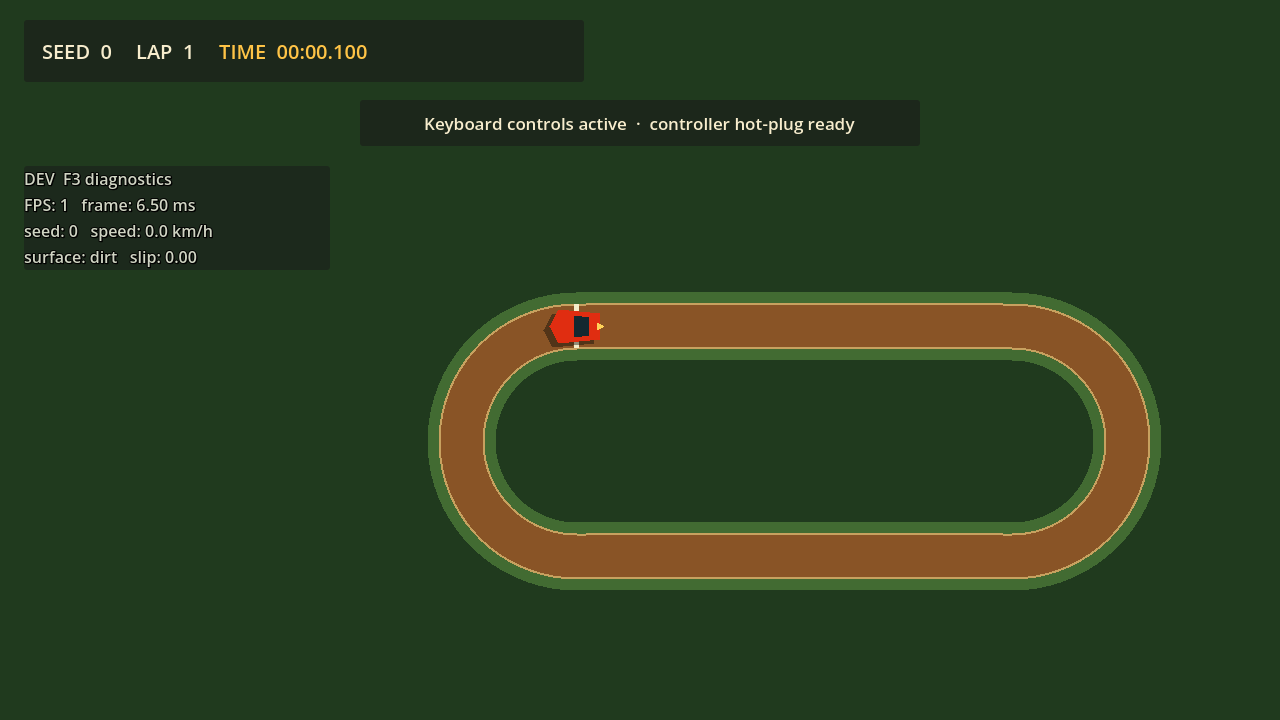
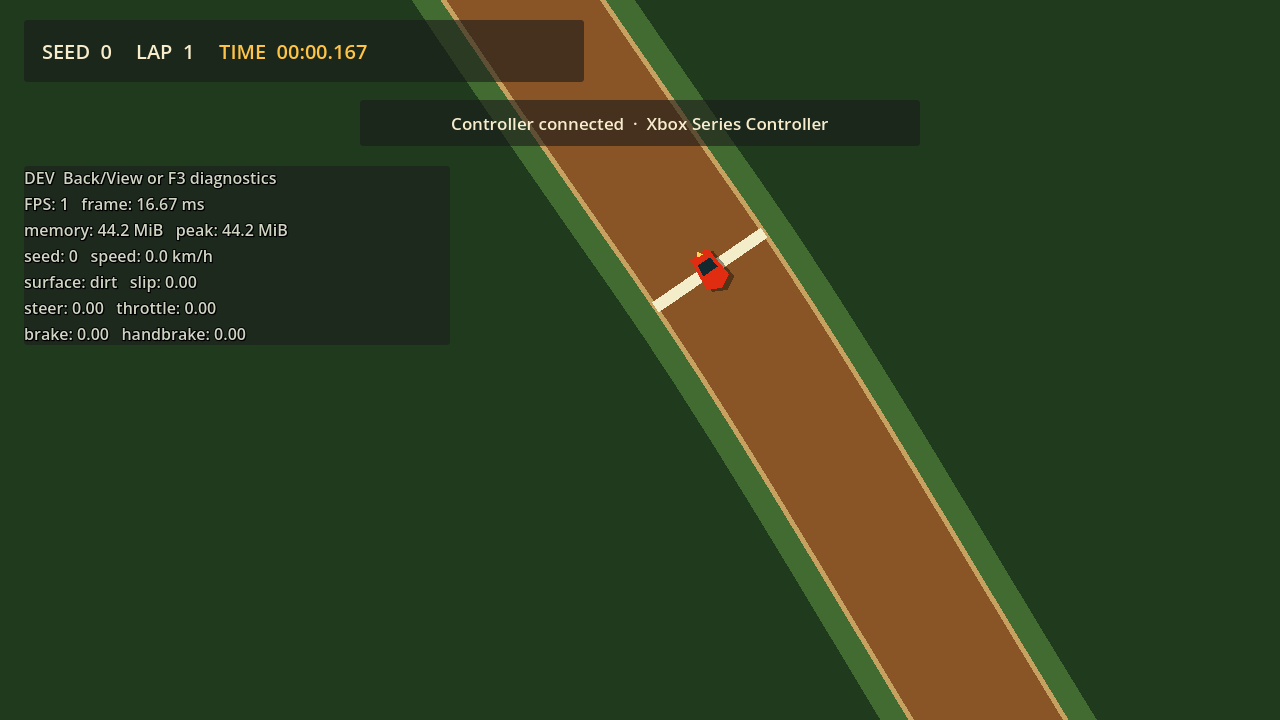
feat: scale track rendering, fixtures, and evidence to the new world
Match the presentation layer to the rescaled world: proportional grass
shoulder/boundary/start-finish line widths in TrackRuntime, dust particle
velocity/gravity/scale tuned for the ~600 px/s car, and the procedural
track capture script's shoulder width kept in sync. Update the
issue_5_input_session_test checkpoint-gate fixture to a track width the
generator can still produce (150.0, above MIN_WIDTH), moving its
outside-gate probe out to y=180 so the assertion still tests what it
was written to check. Refresh README, procedural-tracks, and the
generated visual evidence for the new scale.

Changed region(s): [[0.3125, 0.0, 0.9062, 1.0], [0.0, 0.2139, 0.25, 0.4889], [0.25, 0.0611, 0.2812, 0.0917]]

diff --git a/docs/procedural-tracks.md b/docs/procedural-tracks.md
@@ -1,23 +1,25 @@
 # Procedural dirt circuits
 
-`TrackGenerator.generate(seed)` returns a complete `TrackDefinition` without reading vehicle or input state. It uses Godot's seeded `RandomNumberGenerator` to choose the dimensions and width of a sampled stadium circuit. Curves are sampled at a fixed target spacing, their local normals produce both road edges, and millimetre-quantized geometry produces the SHA-256 fingerprint.
+`TrackGenerator.generate(seed)` returns a complete `TrackDefinition` without reading vehicle or input state. It uses Godot's seeded `RandomNumberGenerator` to sample a closed Catmull-Rom spline through 14 control points arranged around a circle whose base radius derives from the target lap length. Each control point's radius is independently jittered between 72% and 100% of the base radius, except three consecutive points — the first two and the last — which stay pinned to the un-jittered base radius so the loop always contains at least one gentle span; without that pin, the start-straight constraint below would be a gamble on jitter and most seeds would fall back to the stadium. The spline is scaled to hit the exact target lap length *before* uniform resampling at the target spacing — scaling a uniformly-spaced polyline after resampling would multiply its spacing too, so scaling first is what makes the final spacing correct. Curves are sampled at a fixed target spacing, their local normals produce both road edges, and millimetre-quantized geometry produces the SHA-256 fingerprint.
+
+The resampled loop is then rotated so its longest low-curvature run starts at index 0, which becomes the start/finish straight and the spawn point. Curvature is precomputed once per sample and scanned in a single wrapped pass to find the longest run, keeping the search O(n) over the ~1,000–1,500 samples in a typical lap rather than the O(n²) that re-measuring from every index would cost.
 
 ## Accepted geometry bounds
 
 | Property | Accepted desktop prototype bound |
 | --- | --- |
-| Road width | 40–56 world units |
-| Lap length | 1,100–1,900 world units |
-| Maximum sampled curvature | 0.02 radians per world unit |
-| Start straight | At least 160 world units |
-| Target centerline sample spacing | 10 world units |
+| Road width | 125–175 world units |
+| Lap length | 25,000–37,500 world units |
+| Maximum sampled curvature | 0.005 radians per world unit |
+| Start straight | At least 1,875 world units |
+| Target centerline sample spacing | 25 world units |
 | Deterministic validation attempts | At most 6 |
 
 The start/spawn transform is the first centerline sample and rotates the vehicle-local `-Y` forward axis to face the first segment. Eight transforms are placed in lap order at equal sample-index intervals. The finish checkpoint is index 0; `LapProgressTracker` accepts only positive-direction crossings in the sequence `1..7, 0`, so repeated or reverse finish crossings cannot increment the lap.
 
 Each candidate is checked against the configured bounds and for non-adjacent centerline/edge intersections and left/right edge overlap. Rejected candidates consume the next deterministic RNG values. If the bounded attempts are exhausted, generation returns a fixed, validated stadium while retaining the requested seed and reporting `retry_exhausted:<last reason>; fallback=known_valid_stadium`.
 
-`TrackRuntime` draws grass shoulder, dirt, and edge guides and creates one static `SegmentShape2D` for every segment on both closed boundaries. With the 10-unit target spacing, the generated seeds keep boundary gaps below 13.2 units. The headless collision test defines ordinary prototype racing speed as 300 world units per second at 60 physics ticks per second: a real 4-unit-radius `CharacterBody2D` is swept outward through straight and curved sample joints on both edges, then driven under outward pressure across 28 consecutive contacting outer-edge joints. Seeds 0, 4, and 9 block all 24 representative sweeps without tunneling and complete the contacting traversals without a stalled joint. `TrackSurfaceMap` treats points within half the road width of the centerline as dirt (grip 1.0, drag 1.0) and all others as grass (grip 0.55, drag 2.2).
+`TrackRuntime` draws grass shoulder, dirt, and edge guides and creates one static `SegmentShape2D` for every segment on both closed boundaries. With the 25-unit target spacing, the generated seeds keep boundary gaps below 30 units. The headless collision test defines ordinary prototype racing speed as 300 world units per second at 60 physics ticks per second: a real 4-unit-radius `CharacterBody2D` is swept outward through straight and curved sample joints on both edges, then driven under outward pressure across 28 consecutive contacting outer-edge joints. Seeds 0, 4, and 9 block all 24 representative sweeps without tunneling and complete the contacting traversals without a stalled joint. `TrackSurfaceMap` treats points within half the road width of the centerline as dirt (grip 1.0, drag 1.0) and all others as grass (grip 0.55, drag 2.2).
 
 ## Performance and evidence
 

diff --git a/README.md b/README.md
@@ -40,6 +40,13 @@ godot --headless --path . --script res://tests/headless_smoke.gd
 
 The smoke check loads and instantiates the configured main scene, exercises its interchangeable track/vehicle mount points, verifies normalized vehicle input behavior, checks release diagnostics visibility, and loads the default seed and vehicle-tuning resources.
 
+Run the world-scale contract and spatial-indexing checks:
+
+```sh
+godot --headless --path . --script res://tests/world_scale_contract_test.gd
+godot --headless --path . --script res://tests/segment_grid_test.gd
+```
+
 Run the issue #5 input/session and integrated-scene checks:
 
 ```sh
@@ -63,6 +70,7 @@ godot --headless --path . --script res://tests/issue_6_android_test.gd
 
 | Directory | Responsibility |
 | --- | --- |
+| `world/` | The pixel-per-metre scale contract and shared spatial indexing |
 | `track/` | Deterministic generated track data, runtime geometry/collision, lap order, and surface queries |
 | `vehicle/` | Tunable force-based car dynamics, reset safety, feedback, and diagnostics |
 | `input/` | InputMap polling, deadzone processing, and hardware-independent normalized vehicle input |
@@ -70,6 +78,8 @@ godot --headless --path . --script res://tests/issue_6_android_test.gd
 | `platform/` | Small Android or Linux/Steam Deck adapters only |
 | `data/` | Versioned/default seed and physics tuning resources |
 | `tests/` | Headless project, contract, and future deterministic behavior checks |
+
+The world unit is the pixel at **12.5 px per metre** (`world/world_scale.gd`). Every length, speed, and acceleration in `track/`, `vehicle/`, and `session/` is expressed in pixels at that scale; route new scale-dependent literals through `WorldScale.metres()` so they stay greppable.
 
 `TrackDefinition` carries the generated centerline, width, bounds, spawn transform, ordered checkpoints, seed, and geometry fingerprint. `SurfaceQuery` maps a world position to surface type, grip, and drag. `VehicleInputState` carries normalized steering, throttle, brake, and handbrake values without referencing hardware.
 
